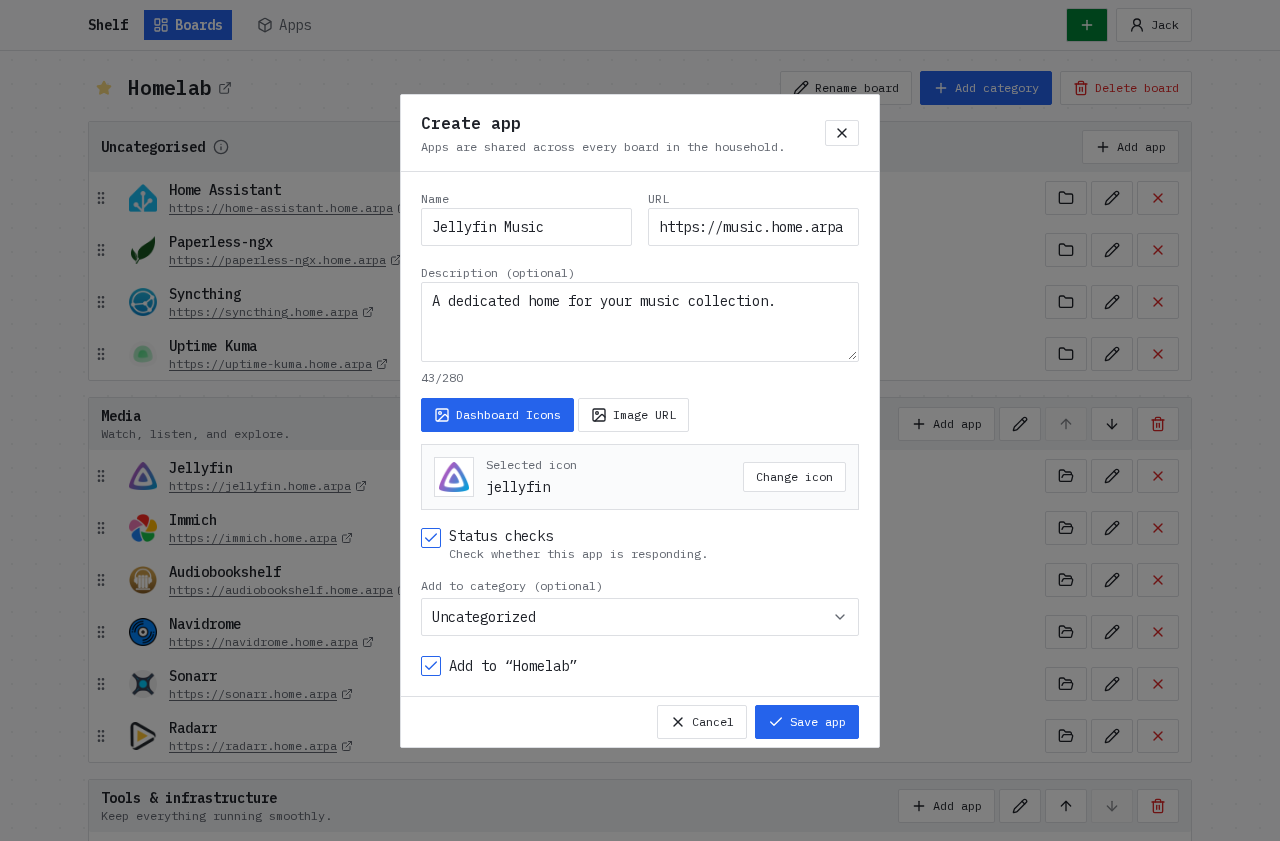
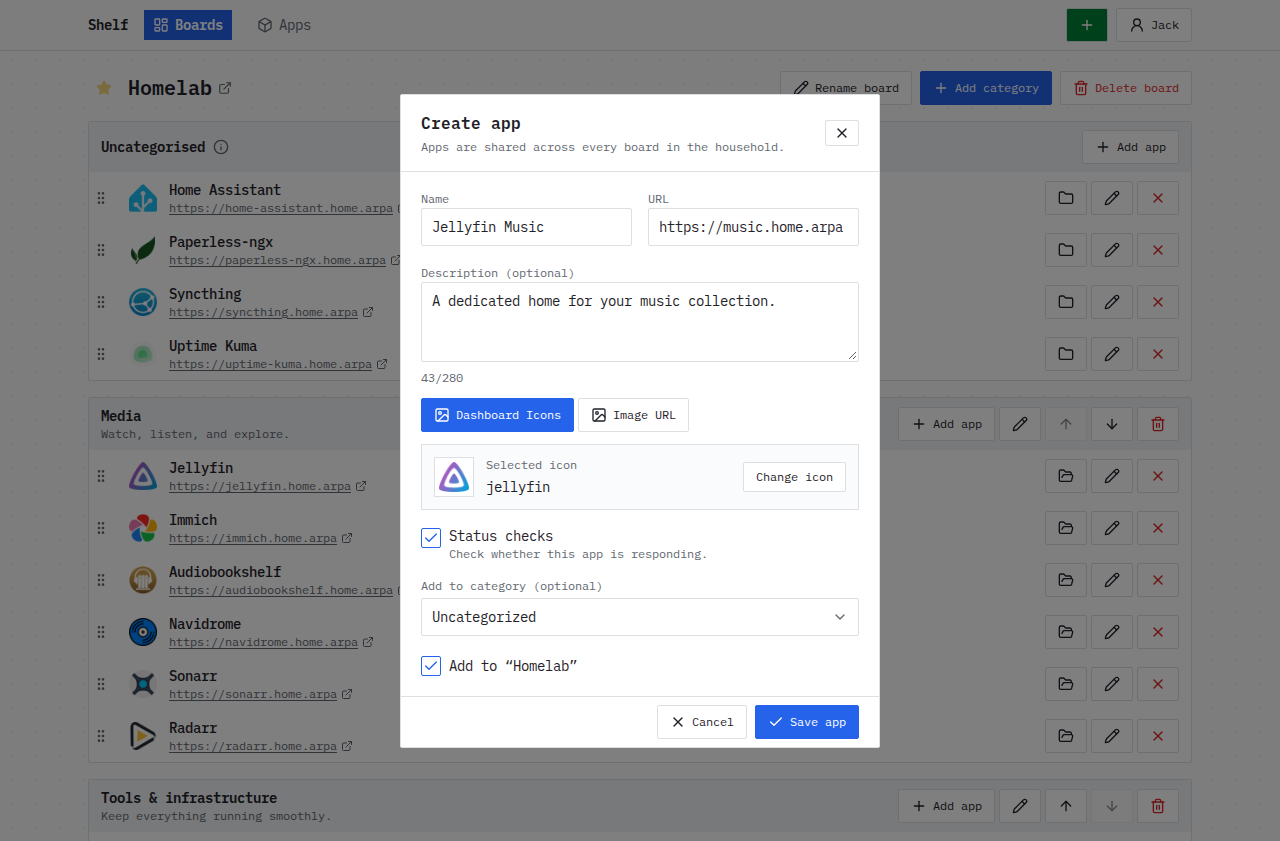
fix(screenshots): seed and rebuild the server before capturing
The screenshot webServer served a stale production build: it reseeded the
database but never rebuilt, so pages rendered with code predating the
optional status checks feature — disabled apps showed status dots and
README captures drifted from the actual UI. Seed first so
DATABASE_URL exists at build time, then run the full build before
starting the server, and refresh the captured screenshots.

BREAKING CHANGE: none

diff --git a/playwright.config.ts b/playwright.config.ts
@@ -22,7 +22,7 @@ export default defineConfig({
   projects: [{ name: "screenshot" }],
   webServer: {
     command:
-      "npm run db:generate && node --import tsx e2e/seed.ts && NODE_ENV=production node .server-build/scripts/server.js --hostname 127.0.0.1 --port 3310",
+      "npm run db:generate && node --import tsx e2e/seed.ts && npm run build && NODE_ENV=production node .server-build/scripts/server.js --hostname 127.0.0.1 --port 3310",
     url: `${baseURL}/login`,
     timeout: 180_000,
     reuseExistingServer: false,
